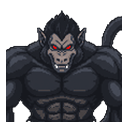
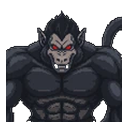
fix(pet): sync Goku Form 1 Oozaru palette and materials across all action states

diff --git a/scripts/build-oozaru-base.py b/scripts/build-oozaru-base.py
@@ -1,10 +1,12 @@
-import json
+#!/usr/bin/env python3
 import hashlib
+import json
 from pathlib import Path
 from PIL import Image
 import numpy as np
 
-ROOT = Path(".")
+ROOT = Path(__file__).resolve().parent.parent
+ASSETS_DIR = ROOT / "scripts" / "assets" / "oozaru"
 PET_DIR = ROOT / "public" / "pets" / "super-saiyan-goku"
 FORMS_DIR = PET_DIR / "forms"
 BASE_DIR = FORMS_DIR / "base"
@@ -14,112 +16,137 @@ SHEET_W, SHEET_H = 1536, 1872
 CELL_W, CELL_H = 192, 208
 BASELINE_Y = 202
 
-idle = Image.open("/tmp/oozaru_anime_palette.png").convert("RGBA")
-roar = Image.open("/tmp/oozaru_roar_cell.png").convert("RGBA")
 
-# Ensure transparent background and clean alpha
-def clean_alpha(im):
-    arr = np.array(im)
-    arr[arr[:, :, 3] < 30] = [0, 0, 0, 0]
-    return Image.fromarray(arr)
+def clean_alpha(arr, threshold=30):
+    cleaned = arr.copy()
+    cleaned[cleaned[:, :, 3] < threshold] = [0, 0, 0, 0]
+    return cleaned
 
-idle = clean_alpha(idle)
-roar = clean_alpha(roar)
 
-# 0. Idle
-c0 = idle.copy()
+def harmonize_roar_to_idle(c0, c4):
+    is_eye0 = (c0[:, :, 0] > 130) & (c0[:, :, 1] < 80) & (c0[:, :, 2] < 80)
+    is_muzzle0 = (c0[:, :, 0] > 55) & (c0[:, :, 1] > 55) & (c0[:, :, 2] > 55) & ~is_eye0 & (c0[:, :, 3] > 64)
+    is_fur0 = (c0[:, :, 3] > 64) & ~is_eye0 & ~is_muzzle0
 
-# 1. Run-Right (chồm người chạy phải)
-c1_raw = roar.transpose(Image.FLIP_LEFT_RIGHT).rotate(-10, resample=Image.BICUBIC, center=(96, 200))
-arr1 = np.array(c1_raw)
-non_empty = np.argwhere(arr1[:, :, 3] > 0)
-shift_y1 = BASELINE_Y - non_empty[:, 0].max()
-c1 = Image.new("RGBA", (CELL_W, CELL_H), (0, 0, 0, 0))
-c1.paste(c1_raw, (0, shift_y1), c1_raw)
+    is_eye4 = (c4[:, :, 0] > 130) & (c4[:, :, 1] < 80) & (c4[:, :, 2] < 80) & (np.arange(CELL_H)[:, None] < 35)
+    is_mouth4 = (c4[:, :, 0] > 90) & (c4[:, :, 1] < 70) & (np.arange(CELL_H)[:, None] >= 35) & (c4[:, :, 3] > 64)
+    is_muzzle4 = (c4[:, :, 0] > 55) & (c4[:, :, 1] > 55) & (c4[:, :, 2] > 55) & ~is_eye4 & ~is_mouth4 & (c4[:, :, 3] > 64)
+    is_fur4 = (c4[:, :, 3] > 64) & ~is_eye4 & ~is_muzzle4 & ~is_mouth4
 
-# 2. Run-Left (chồm người chạy trái)
-c2_raw = roar.rotate(10, resample=Image.BICUBIC, center=(96, 200))
-arr2 = np.array(c2_raw)
-non_empty = np.argwhere(arr2[:, :, 3] > 0)
-shift_y2 = BASELINE_Y - non_empty[:, 0].max()
-c2 = Image.new("RGBA", (CELL_W, CELL_H), (0, 0, 0, 0))
-c2.paste(c2_raw, (0, shift_y2), c2_raw)
+    c4_out = c4.copy().astype(np.float32)
 
-# 3. Wave/Done
-c3 = idle.copy()
+    f0_mean = c0[is_fur0][:, :3].mean(axis=0)
+    f0_std = c0[is_fur0][:, :3].std(axis=0)
+    f4_mean = c4[is_fur4][:, :3].mean(axis=0)
+    f4_std = c4[is_fur4][:, :3].std(axis=0)
+    c4_out[is_fur4, :3] = (c4[is_fur4, :3] - f4_mean) * (f0_std / f4_std) + f0_mean
 
-# 4. Celebrate/Levelup (Roar)
-c4 = roar.copy()
+    m0_mean = c0[is_muzzle0][:, :3].mean(axis=0)
+    m0_std = c0[is_muzzle0][:, :3].std(axis=0)
+    m4_mean = c4[is_muzzle4][:, :3].mean(axis=0)
+    m4_std = c4[is_muzzle4][:, :3].std(axis=0)
+    c4_out[is_muzzle4, :3] = (c4[is_muzzle4, :3] - m4_mean) * (m0_std / m4_std) + m0_mean
 
-# 5. Sleepy (Mắt nhắm mí tối)
-c5 = idle.copy()
-arr5 = np.array(c5)
-for y in range(35, 65):
-    for x in range(70, 120):
-        if arr5[y, x, 0] > 180 and arr5[y, x, 1] < 80 and arr5[y, x, 2] < 80:
-            arr5[y, x] = [40, 42, 48, 255]
-c5 = Image.fromarray(arr5)
+    eye0_mean = c0[is_eye0][:, :3].mean(axis=0)
+    eye0_std = c0[is_eye0][:, :3].std(axis=0)
+    eye4_mean = c4[is_eye4][:, :3].mean(axis=0)
+    eye4_std = np.maximum(c4[is_eye4][:, :3].std(axis=0), 1.0)
+    c4_out[is_eye4, :3] = (c4[is_eye4, :3] - eye4_mean) * (eye0_std / eye4_std) + eye0_mean
 
-# 6. Waiting
-c6 = idle.copy()
+    return Image.fromarray(np.clip(c4_out, 0, 255).astype(np.uint8))
 
-# 7. Working (Roar & smash)
-c7 = roar.copy()
 
-# 8. Reading
-c8 = idle.copy()
+def build_oozaru_sheet():
+    idle_im = Image.open(ASSETS_DIR / "oozaru_idle_base.png").convert("RGBA")
+    roar_im = Image.open(ASSETS_DIR / "oozaru_roar_base.png").convert("RGBA")
 
-row_bases = [c0, c1, c2, c3, c4, c5, c6, c7, c8]
+    c0 = clean_alpha(np.array(idle_im))
+    c4 = clean_alpha(np.array(roar_im))
 
-# Create 8x9 full spritesheet
-sheet = Image.new("RGBA", (SHEET_W, SHEET_H), (0, 0, 0, 0))
+    c4_harmonized = harmonize_roar_to_idle(c0, c4)
+    idle = Image.fromarray(c0)
 
-for r in range(9):
-    base_cell = row_bases[r]
-    for col in range(8):
-        # Subtle 2px natural motion
-        bob = int(round(np.sin(col * np.pi / 4.0) * 2.0))
-        frame = Image.new("RGBA", (CELL_W, CELL_H), (0, 0, 0, 0))
-        frame.paste(base_cell, (0, bob), base_cell)
-        sheet.paste(frame, (col * CELL_W, r * CELL_H), frame)
+    c0_cell = idle.copy()
 
-# Save WebP according to skill standards: quality=92, alpha_quality=100, method=6
-spritesheet_path = BASE_DIR / "spritesheet.webp"
-sheet.save(spritesheet_path, "WEBP", quality=92, alpha_quality=100, method=6)
-print(f"Saved {spritesheet_path} ({spritesheet_path.stat().st_size // 1024} KB)")
+    c1_raw = c4_harmonized.transpose(Image.FLIP_LEFT_RIGHT).rotate(-10, resample=Image.BICUBIC, center=(96, 200))
+    arr1 = np.array(c1_raw)
+    non_empty = np.argwhere(arr1[:, :, 3] > 0)
+    shift_y1 = BASELINE_Y - non_empty[:, 0].max()
+    c1_cell = Image.new("RGBA", (CELL_W, CELL_H), (0, 0, 0, 0))
+    c1_cell.paste(c1_raw, (0, shift_y1), c1_raw)
 
-# Save 128x128 avatar
-head_crop = idle.crop((42, 4, 150, 112))
-avatar = Image.new("RGBA", (128, 128), (0, 0, 0, 0))
-avatar_scaled = head_crop.resize((116, 116), Image.LANCZOS)
-avatar.paste(avatar_scaled, (6, 6), avatar_scaled)
-avatar_path = BASE_DIR / "avatar.png"
-avatar.save(avatar_path, "PNG")
-print(f"Saved {avatar_path} ({avatar_path.stat().st_size // 1024} KB)")
+    c2_cell = c1_cell.transpose(Image.FLIP_LEFT_RIGHT)
+    c3_cell = idle.copy()
+    c4_cell = c4_harmonized.copy()
 
-# Update forms/manifest.json
-manifest_path = FORMS_DIR / "manifest.json"
-manifest = {}
-if manifest_path.exists():
-    manifest = json.loads(manifest_path.read_text())
+    c5_cell = idle.copy()
+    arr5 = np.array(c5_cell)
+    eye_coords = np.argwhere((c0[:, :, 0] > 130) & (c0[:, :, 1] < 80) & (c0[:, :, 2] < 80))
+    for y, x in eye_coords:
+        arr5[y, x] = [40, 42, 48, 255]
+    c5_cell = Image.fromarray(arr5)
 
-# Compute alpha hash and opaque count for base
-alpha_bytes = bytes(np.array(sheet)[:, :, 3].tobytes())
-alpha_hash = hashlib.sha256(alpha_bytes).hexdigest()[:16]
-opaque_count = int(np.sum(np.array(sheet)[:, :, 3] > 0))
+    c6_cell = idle.copy()
+    c7_cell = c4_harmonized.copy()
+    c8_cell = idle.copy()
 
-if "forms" not in manifest:
-    manifest["forms"] = {}
+    row_bases = [c0_cell, c1_cell, c2_cell, c3_cell, c4_cell, c5_cell, c6_cell, c7_cell, c8_cell]
 
-manifest["forms"]["base"] = {
-    "shape": "oozaru",
-    "alpha_hash": alpha_hash,
-    "opaque_pixels": opaque_count,
-    "hair_ramp": ["#1a1c22", "#2a2e35", "#3e3e44", "#6c686a", "#9a9496"],
-    "outline": "#181a1e",
-    "iris_ramp": ["#8b0000", "#d43828", "#ff5544"],
-    "skin_tint": "#bebfb4"
-}
+    sheet = Image.new("RGBA", (SHEET_W, SHEET_H), (0, 0, 0, 0))
+    for r in range(9):
+        base_cell = row_bases[r]
+        for col in range(8):
+            bob = int(round(np.sin(col * np.pi / 4.0) * 2.0))
+            frame = Image.new("RGBA", (CELL_W, CELL_H), (0, 0, 0, 0))
+            frame.paste(base_cell, (0, bob), base_cell)
+            sheet.paste(frame, (col * CELL_W, r * CELL_H), frame)
 
-manifest_path.write_text(json.dumps(manifest, indent=2))
-print("Updated forms/manifest.json successfully!")
+    spritesheet_path = BASE_DIR / "spritesheet.webp"
+    sheet.save(spritesheet_path, "WEBP", quality=92, alpha_quality=100, method=6)
+    print(f"Saved {spritesheet_path} ({spritesheet_path.stat().st_size // 1024} KB)")
+
+    head_crop = idle.crop((42, 4, 150, 112))
+    avatar = Image.new("RGBA", (128, 128), (0, 0, 0, 0))
+    avatar_scaled = head_crop.resize((116, 116), Image.LANCZOS)
+    avatar.paste(avatar_scaled, (6, 6), avatar_scaled)
+    avatar_path = BASE_DIR / "avatar.png"
+    avatar.save(avatar_path, "PNG", optimize=True)
+    print(f"Saved {avatar_path} ({avatar_path.stat().st_size // 1024} KB)")
+
+    alpha_bytes = (np.array(sheet)[:, :, 3] > 0).astype(np.uint8).tobytes()
+    alpha_hash = hashlib.sha1(alpha_bytes).hexdigest()[:16]
+    opaque_count = int(np.sum(np.array(sheet)[:, :, 3] > 0))
+
+    manifest_path = FORMS_DIR / "manifest.json"
+    manifest = {}
+    if manifest_path.exists():
+        manifest = json.loads(manifest_path.read_text())
+    if "forms" not in manifest:
+        manifest["forms"] = {}
+
+    manifest["forms"]["base"] = {
+        "hairShape": "base",
+        "hair": [
+            "#1a1c22",
+            "#181a1e",
+            "#282a32",
+            "#393b45"
+        ],
+        "iris": [
+            "#8b0000",
+            "#d43828",
+            "#ff5544"
+        ],
+        "skinTint": None,
+        "browsVisible": True,
+        "alphaHash": alpha_hash,
+        "opaquePixels": opaque_count
+    }
+
+    manifest_path.write_text(json.dumps(manifest, indent=2) + "\n")
+    print(f"Updated {manifest_path}: base opaquePixels={opaque_count}, alphaHash={alpha_hash}")
+    return sheet
+
+
+if __name__ == "__main__":
+    build_oozaru_sheet()

diff --git a/scripts/build-goku-forms.py b/scripts/build-goku-forms.py
@@ -518,6 +518,14 @@ def main():
             if form_id in previous:
                 manifest["forms"][form_id] = previous[form_id]
             continue
+        if form_id == "base":
+            import importlib.util
+            spec = importlib.util.spec_from_file_location("build_oozaru_base", ROOT / "scripts" / "build-oozaru-base.py")
+            oozaru_mod = importlib.util.module_from_spec(spec)
+            spec.loader.exec_module(oozaru_mod)
+            oozaru_mod.build_oozaru_sheet()
+            manifest["forms"]["base"] = json.loads(manifest_path.read_text())["forms"]["base"]
+            continue
         out = sheet.copy()
         for r in range(ROWS):
             for c in range(COLS):
